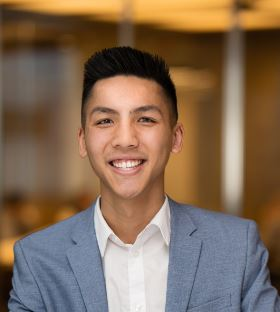
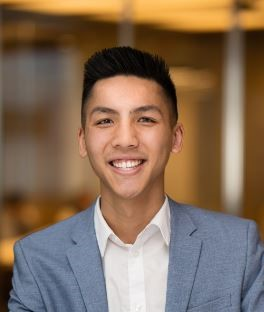
fixed button links, added resume, added flora

diff --git a/index.html b/index.html
@@ -17,12 +17,12 @@
 <body>
   <header class="main-header">
     <div class="main-header__logo-container">
-      <div class="main-header__logo-img-cont">
+      <!-- <div class="main-header__logo-img-cont">
         <img
           src="./assets/profile/Cameron headshot close up.JPG"
           alt="logo Image" class="main-header__logo-img" />
       </div>
-      <h4 class="main-header__logo-text">Cameron Lee</h4>
+      <h4 class="main-header__logo-text">Cameron Lee</h4> -->
     </div>
     <nav class="main-header__navigation">
       <ul class="main-header__navigation-links">
@@ -30,8 +30,8 @@
         <li class="main-header__navigation-link"><a href="./index.html#about"> About </a></li>
         <li class="main-header__navigation-link">
           <a href="./index.html#projects"> Projects </a>
-        </li>
-        <li class="main-header__navigation-link"><a href="./index.html#contact" href=""> Contact </a></li>
+        <!-- </li>
+        <li class="main-header__navigation-link"><a href="./index.html#contact" href=""> Contact </a></li> -->
       </ul>
     </nav>
     <div class="main-header__sm-scr-nav-btn">
@@ -74,12 +74,19 @@
       <div class="home-hero__info">
         <h1 class="heading-primary home-hero__heading-primary">
           <!-- <span class="heading-primary__sm"> Hello 👋</span> -->
-          <span class="heading-primary__main">
-            Hi, my name is Cameron Lee! I'm a Full Stack Developer.
-          </span>
+          <div class="profile-pic-container">
+            <img src="./assets/profile/Cameron-1.JPG"/>
+          </div>
+          <div>
+            <span class="heading-primary__main">
+              Hi, my name is Cameron Lee! I'm a Full Stack Developer.
+            </span>
+          </div>
         </h1>
-        <button class="btn btn-theme home-hero__btn-theme">Projects</button>
-        <button class="btn btn-inv home-hero__btn-theme">Contact</button>
+        <button class="btn btn-theme home-hero__btn-theme">
+          <a href="./index.html#projects">Projects</a>
+        </button>
+        <button class="btn btn-inv home-hero__btn-theme" onclick="window.location.href='https://docs.google.com/document/d/e/2PACX-1vSzOtGhSr3hi9tC8lJyPGbibb6Be0ZA0TlXqou-ALYESfV-bIJD1Uh1bRjVnsR5HdQIkSAUdm5ZuGAI/pub';" target="_blank">Resume</button>
       </div>
     </div>
   </section>
@@ -231,7 +238,7 @@
 
               <p class="text-primary projects__list-item-text-primary">
                 <span>
-                  Built with React.js, Html, and CSS using the Perenual API.
+                  Educational multi-page 
                 </span>
                 <!-- <br />
                   <br /> -->
@@ -292,7 +299,7 @@
       </div>
     </div>
   </section>
-  <section id="contact" class="contact main-section">
+  <!-- <section id="contact" class="contact main-section">
     <div class="main-container">
       <h2 class="heading-secondary">
         <span class="heading-secondary__sm"> Contact 📞</span>
@@ -322,7 +329,7 @@
         </div>
       </div>
     </div>
-  </section>
+  </section> -->
   <footer class="main-footer">
     <div class="main-footer__upper">
       <div class="main-container">
@@ -336,9 +343,9 @@
           <li class="main-footer__link">
             <a href="./index.html#projects">Projects</a>
           </li>
-          <li class="main-footer__link">
+          <!-- <li class="main-footer__link">
             <a href="./index.html#contact">Contact</a>
-          </li>
+          </li> -->
         </ul>
         <div class="main-footer__mid-line"></div>
         <div class="main-footer__socials">

diff --git a/style.css b/style.css
@@ -975,3 +975,9 @@ a {
   left: 0;
   z-index: 1;
 }
+
+.profile-pic-container img{
+  border-radius: 50%;
+  max-width: 300px;
+  height: auto;
+}
